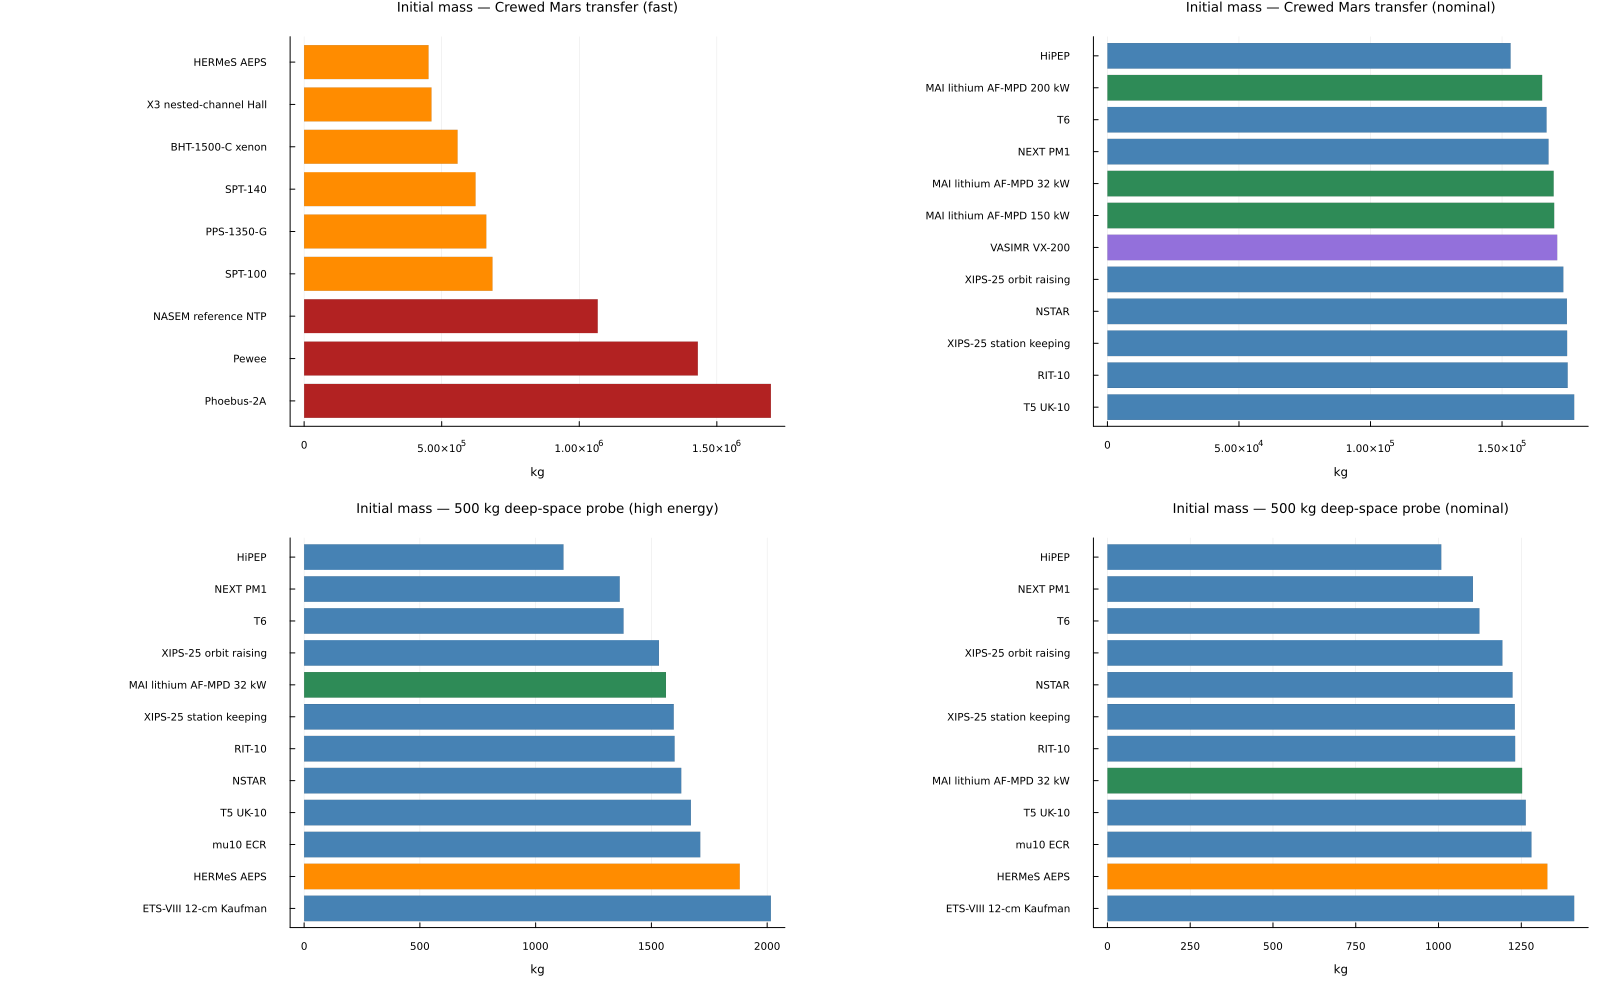
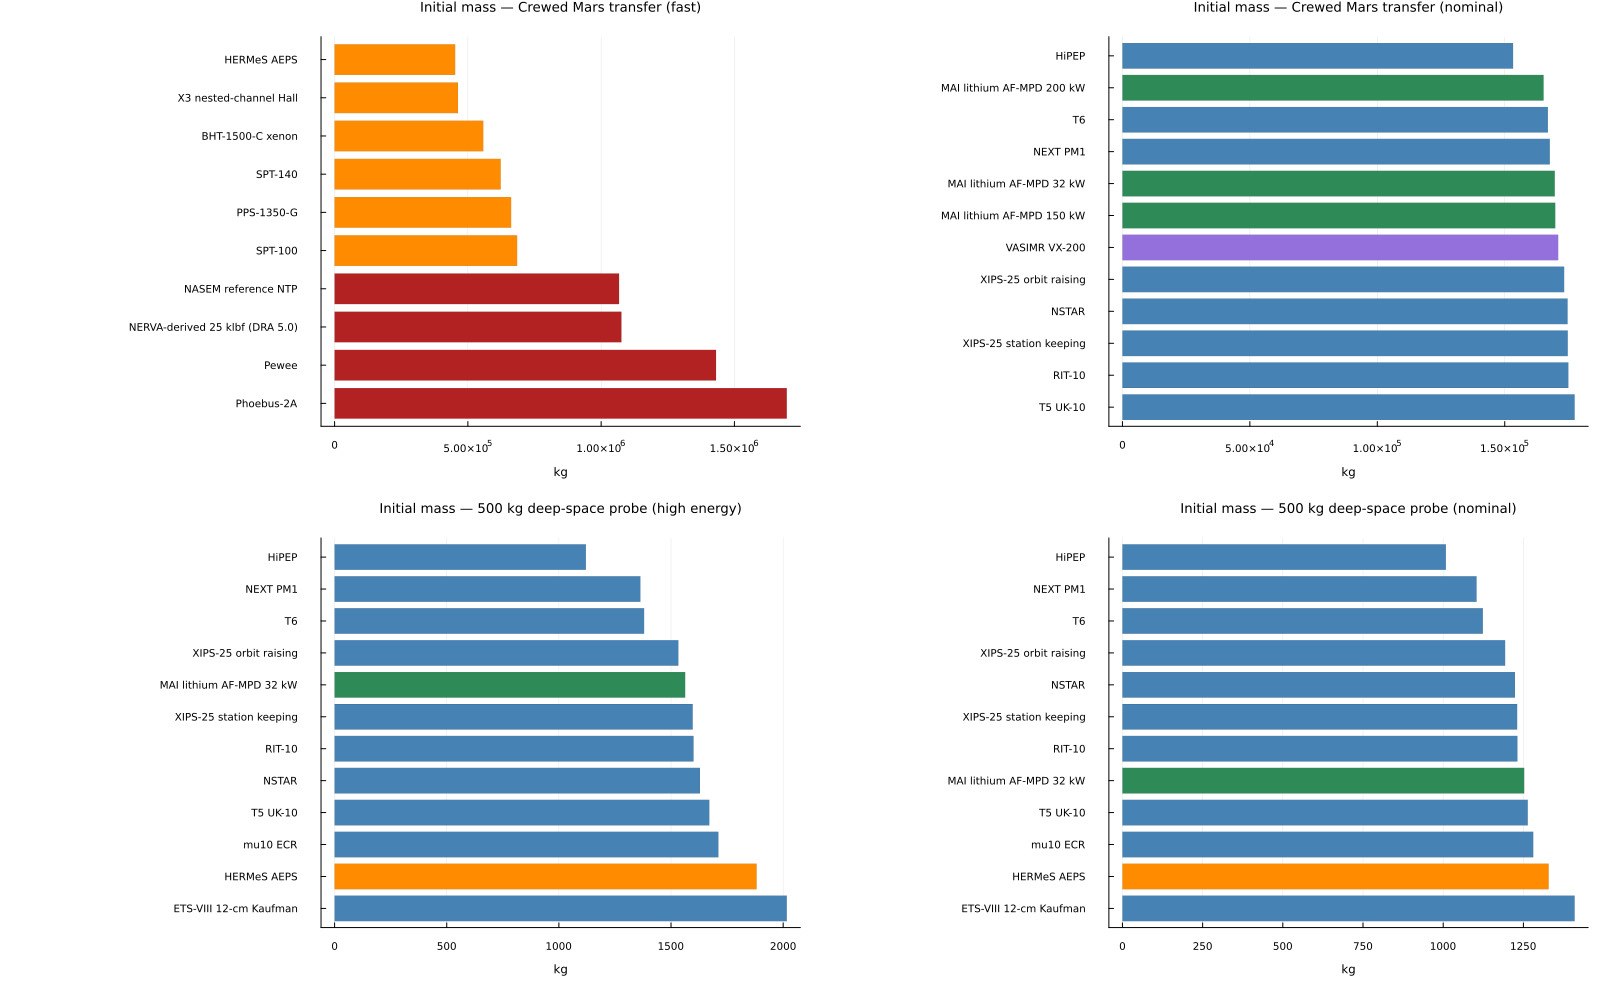
Charge nuclear thermal engine dry mass, and fix a 1000x thrust units bug
Phoebus-2A's thrust was recorded as 930000 mN, that is 930 N, from a source saying
930 kN. Nothing caught it: the consistency view covers only electrical rows, NTP
thrust feeds no calculation, and no document quoted it.

Added v_ntp_consistency and an 18th check to close that gap. Jet power T*g0*Isp/2
cannot exceed reactor thermal power and in practice is a large fraction of it;
Phoebus-2A corrected gives 0.916 against 0.0009 for the bad figure. Confirmed by
negative test in a scratch database.

Added ntp_nerva_derived, the 25 klbf Pewee-class engine baselined in Mars DRA 5.0
(Borowski et al., new source S33), whose published thrust-to-weight of 3.50 gives
the only route to an engine dry mass for this class: 3240 kg. The comparison now
charges engine dry mass in the non-electric branch.

At Mars scale that is a one percent correction. On the nominal probe it is a factor
of six: 22.0 t for the engine-carrying row against 3.0 to 3.8 t for the reactor
tests that have no engine mass to charge, and 22 t of vehicle to move 500 kg.

32 thrusters, 128 rows, 101 feasible, both pipelines agreeing to 7e-10. 1645 Julia
tests, 44 Scala, 18 SQL checks with 0 errors, Lean clean.

diff --git a/docs/findings.md b/docs/findings.md
@@ -19,16 +19,16 @@ The database is not version controlled; it is rebuilt from `sql/schema.sql` and 
 
 ## What was computed, and on what assumptions
 
-For each of 4 missions and each of 31 thrusters that records a specific impulse, the
+For each of 4 missions and each of 32 thrusters that records a specific impulse, the
 pipeline computes exhaust velocity, Tsiolkovsky mass ratio, propellant mass fraction,
 propellant and tank mass, initial mass, thruster count, total thrust and power, and
-power-limited thrusting time. That is 124 rows, of which 98 are feasible.
+power-limited thrusting time. That is 128 rows, of which 101 are feasible.
 
 Four assumptions carry the result. None is a measurement.
 
 Power plant specific mass is taken as 20 kg/kW for nuclear electric and 12 kg/kW for solar
 electric. Thruster plus power processing dry mass, where a source does not give one, is
-taken as 5 kg/kW; this applies to 29 of the 31 rows. Mission payload masses, delta-v and
+taken as 5 kg/kW; this applies to 29 of the 32 rows. Mission payload masses, delta-v and
 trip-time caps are stated project assumptions, with only the 2 MWe and 6 MWe power levels
 traceable to a source [S18].
 
@@ -64,7 +64,7 @@ support. NTP can therefore be compared on mass here, and cannot be compared on t
 
 ## Crewed Mars transfer, nominal
 
-90 t payload, 7000 m/s, 2 MWe, 365-day cap. 30 of 31 candidates are feasible; the only
+90 t payload, 7000 m/s, 2 MWe, 365-day cap. 31 of 32 candidates are feasible; the only
 failure is the NPT30-I2, a 1 mN cubesat thruster that has no business on this mission.
 
 | rank | thruster | type | propellant | initial mass kg | propellant kg | tank kg | days | units |
@@ -95,7 +95,7 @@ lithium MPD thrusters, the least mature hardware in the set.
 
 ## Crewed Mars transfer, fast
 
-90 t payload, 15 000 m/s, 6 MWe, 210-day cap. Only 9 of 31 are feasible, and the pattern of
+90 t payload, 15 000 m/s, 6 MWe, 210-day cap. Only 10 of 32 are feasible, and the pattern of
 failure is the result.
 
 | rank | thruster | type | propellant | initial mass kg | propellant kg | tank kg | days | units |
@@ -113,15 +113,30 @@ on time, not on mass. Power-limited thrusting time scales with the square of exh
 at fixed power, so the high specific impulse that wins the nominal mission is exactly what
 loses the fast one.
 
-The three nuclear thermal rows are feasible here and sit below the table, because once
-tankage is charged they are the three heaviest vehicles in the feasible set: the NASEM
-reference NTP at 1067 t, Pewee at 1431 t and Phoebus-2A at 1696 t, ranking seventh, eighth
-and ninth of nine. Hydrogen is the reason. At 70.85 kg/m3 it carries a 12.0 percent tank
-fraction against xenon's 5.5, and it is combined with mass ratios above 5, so the tank
-compounds against the propellant rather than trimming it. Their feasibility flag means only
-that the rocket equation closes: the comparison has nothing to say about whether any of them
-meets the 210-day requirement, because the model that produces a trip time does not apply to
-them.
+The four nuclear thermal rows are feasible here and sit below the table, because once tankage
+is charged they are the four heaviest vehicles in the feasible set: the NASEM reference NTP
+at 1067 t, the NERVA-derived 25 klbf engine at 1076 t, Pewee at 1431 t and Phoebus-2A at
+1696 t, ranking seventh through tenth of ten. Hydrogen is the reason. At 70.85 kg/m3 it
+carries a 12.0 percent tank fraction against xenon's 5.5, and it is combined with mass ratios
+above 5, so the tank compounds against the propellant rather than trimming it.
+
+Only one of the four carries its own engine. The NERVA-derived row is a complete engine
+design with a thrust-to-weight ratio of 3.50 [S33], giving 3.24 t of engine charged against
+the vehicle; Pewee and Phoebus-2A were reactor tests rather than engines, and the NASEM entry
+is a study reference point, so none of the three has an engine mass to charge and their
+initial masses are optimistic by an unrecorded amount. That the engine-carrying row still
+lands within one percent of the NASEM reference is a statement about scale: 3.24 t of engine
+is small against a 90 t payload.
+
+It is not small against a 500 kg one. On the nominal probe the NERVA-derived engine comes out
+at 22.0 t against 3.0 to 3.8 t for the three rows that omit their engines, a factor of six
+and 22 t of vehicle to move 500 kg of payload. That is the arithmetic behind the warning in
+the sensitivity section that a nuclear thermal engine on a probe is not a design, now visible
+in the results rather than only asserted in prose.
+
+The feasibility flag on any of these rows means only that the rocket equation closes: the
+comparison has nothing to say about whether they meet the 210-day requirement, because the
+model that produces a trip time does not apply to them.
 
 Within the electric survivors, propellant is 44 to 62 percent of the vehicle, against 8 to 17
 percent on the nominal mission. Doubling delta-v and halving the time cap moves the design
@@ -129,8 +144,8 @@ from power-plant-dominated to propellant-dominated.
 
 ## 500 kg deep-space probe
 
-20 kW solar electric, 3650-day cap. Nominal has all 31 candidates feasible; the high-energy
-variant loses three, all of them nuclear thermal and all of them to tankage rather than time;
+20 kW solar electric, 3650-day cap. Nominal has all 32 candidates feasible; the high-energy
+variant loses four, all of them nuclear thermal and all of them to tankage rather than time;
 the structural-floor sweep below explains why.
 
 Nominal, 12 000 m/s:
@@ -225,9 +240,9 @@ tank mass and thrusting time, with the rows that fail their time cap drawn pale.
 
 The Scala and Julia pipelines implement the relations separately rather than sharing code.
 The Julia test suite joins both producers' rows in the `results` table and requires
-agreement to 1e-9 relative. All 124 rows agree on initial mass, propellant mass, tank mass,
-trip time, thruster count and feasibility. 1592 Julia tests and 44 Scala self-tests pass, and
-SQL validation reports no errors over 17 checks.
+agreement to 1e-9 relative. All 128 rows agree on initial mass, propellant mass, tank mass,
+trip time, thruster count and feasibility. 1645 Julia tests and 44 Scala self-tests pass, and
+SQL validation reports no errors over 18 checks.
 
 The Lean development proves the relations the comparison uses, including
 `propellantMassFraction_mem_Ico`, the statement that the propellant mass fraction lies in

diff --git a/CHANGELOG.md b/CHANGELOG.md
@@ -404,3 +404,37 @@ cross-implementation check, 816 without.
 - The last row of the mission summary table gave its margin as a bare "0.74 to 0.96" while
   the three rows above label the same quantity "times margin". Labelled, and the column
   header now names the quantity as kcrit/8 so the figure does not have to be inferred.
+
+## 2026-10-17
+
+### Nuclear thermal engine dry mass, and a units bug it exposed
+- Found and fixed a 1000x error of my own. Phoebus-2A's thrust was recorded as 930000 mN,
+  that is 930 N, from a source that says 930 kN. Nothing caught it: v_thruster_consistency
+  only covers electrical rows, NTP thrust feeds no calculation, and no document quoted it.
+  Corrected to 930000000 mN.
+- Added v_ntp_consistency and an 18th validation check to close that gap. The nozzle converts
+  reactor thermal power into jet power, so T*g0*Isp/2 can never exceed the reactor thermal
+  power and in practice is a large fraction of it. Phoebus-2A corrected gives 0.916; the
+  erroneous value gives 0.0009. Verified by negative test: reinstating the bad figure in a
+  scratch database makes the check fail with exactly that ratio.
+- Added ntp_nerva_derived, the 25 klbf Pewee-class dual turbopump expander cycle engine
+  baselined in Mars DRA 5.0, from Borowski et al. (new source S33): 906 s, 2790 K core exit,
+  1000 psi, 12.5 kg/s hydrogen, thrust-to-weight 3.50. Its engine dry mass of 3240 kg is
+  derived from that ratio and is the only published route to an engine mass for this class.
+- The comparison now charges engine dry mass in the non-electric branch, as it already did
+  for the tank and power plant. 32 thrusters, 128 rows, 101 feasible.
+
+### What it shows
+- Only one of the four nuclear thermal rows carries an engine. Pewee and Phoebus-2A were
+  reactor tests and the NASEM entry is a study reference point, so none of the three has an
+  engine mass to charge and their initial masses stay optimistic by an unrecorded amount.
+  Their notes now say "engine dry mass not recorded and excluded" rather than implying zero.
+- At Mars scale 3.24 t of engine is small: the engine-carrying row lands within one percent
+  of the NASEM reference. At probe scale it is not. On the nominal probe the NERVA-derived
+  engine comes out at 22.0 t against 3.0 to 3.8 t for the rows that omit their engines, a
+  factor of six, and 22 t of vehicle to move 500 kg of payload. The warning that an NTP
+  engine on a probe is not a design is now visible in the results rather than only asserted.
+- mass_kg joins the set of fields derived_fields may name, since the new row's mass is
+  derived from a published thrust-to-weight rather than quoted directly.
+- Tests: 1645 Julia, 44 Scala. A new test pins that recorded engine mass is charged, that the
+  result matches payload-plus-engine sizing exactly, and that a row without one says so.

diff --git a/docs/survey.md b/docs/survey.md
@@ -194,7 +194,13 @@ and nothing since has matched them in hardware.
 
 Modern programme activity has been start-stop. The NASEM committee's 2021 assessment set the
 reference NTP system at specific impulse of at least 900 s with hydrogen heated to at least 2700 K
-[S18]. NASA design studies in the interim examined engine configurations chosen for affordability and
+[S18]. The engine most studies size against is the NERVA-derived 25 klbf Pewee-class design
+baselined in Mars Design Reference Architecture 5.0: a dual turbopump expander cycle running
+at 2790 K core exit and 1000 psi chamber pressure, 906 s specific impulse, 12.5 kg/s of
+hydrogen, 7.01 m long, and an engine thrust-to-weight ratio of 3.50 [S33]. That ratio is the
+only published route to an engine dry mass for this class; the Rover reactor tests have none,
+because a reactor on a test stand is not an engine. NASA design studies in the interim
+examined engine configurations chosen for affordability and
 for a shortened path to flight rather than for peak performance [S22]. DRACO, the DARPA and NASA
 flight demonstration, was to launch in late 2025 or early 2026
 [S25]. It was cancelled; the FY2026 NASA budget request contained no funding for nuclear thermal or
@@ -487,3 +493,7 @@ presented as settled.
 - `[S32]` Linnell, J. A., and Gallimore, A. D., "Efficiency Analysis of a Hall Thruster
   Operating with Krypton and Xenon", *Journal of Propulsion and Power*, vol. 22, no. 6,
   pp. 1402-1418, 2006.
+- `[S33]` Borowski, S. K., McCurdy, D. R., and Packard, T. W., "Nuclear Thermal Propulsion
+  (NTP): A Proven Growth Technology for Human NEO / Mars Exploration Missions", IEEE
+  Aerospace Conference, NASA Glenn Research Center, NTRS 20120003776, 2012.
+  https://ntrs.nasa.gov/api/citations/20120003776/downloads/20120003776.pdf
